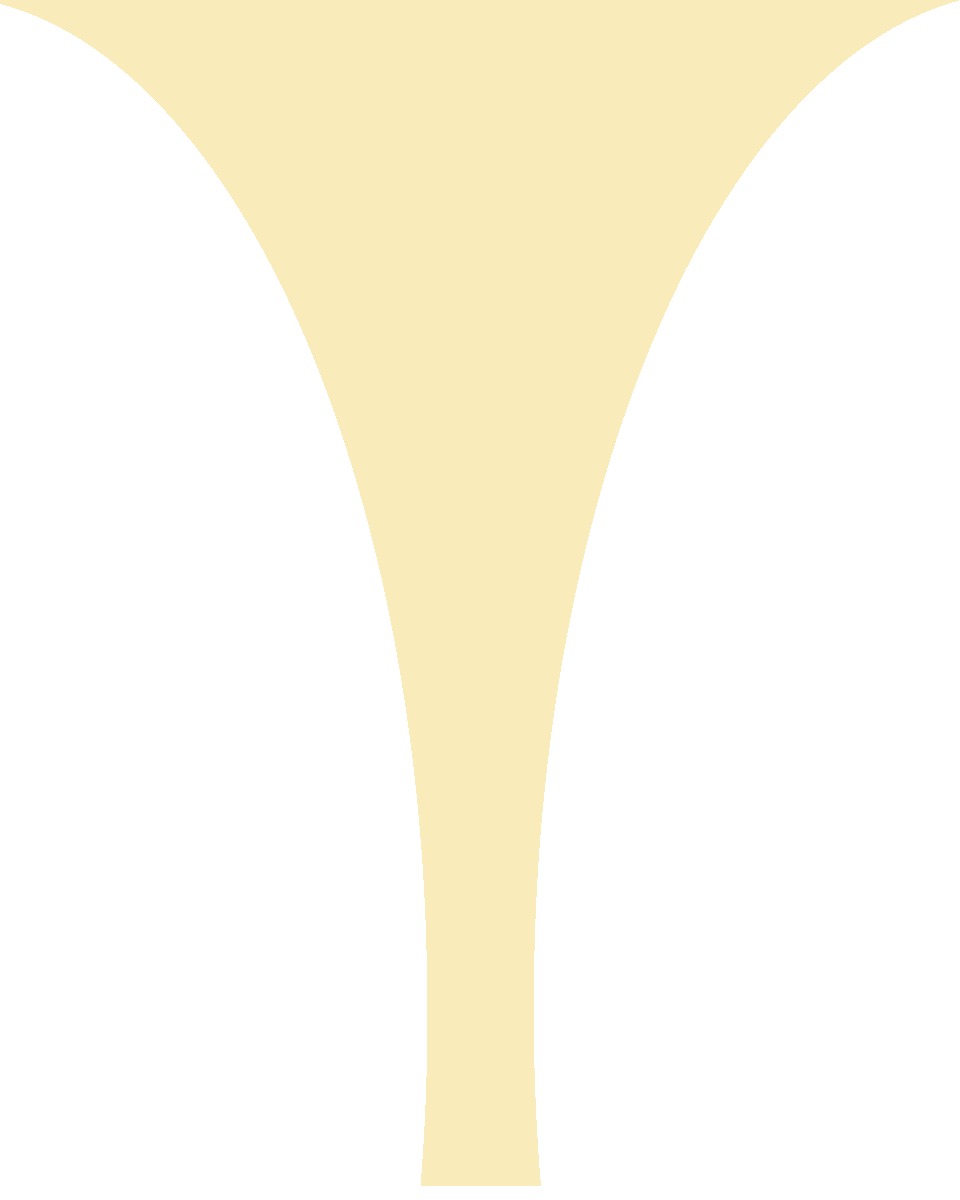
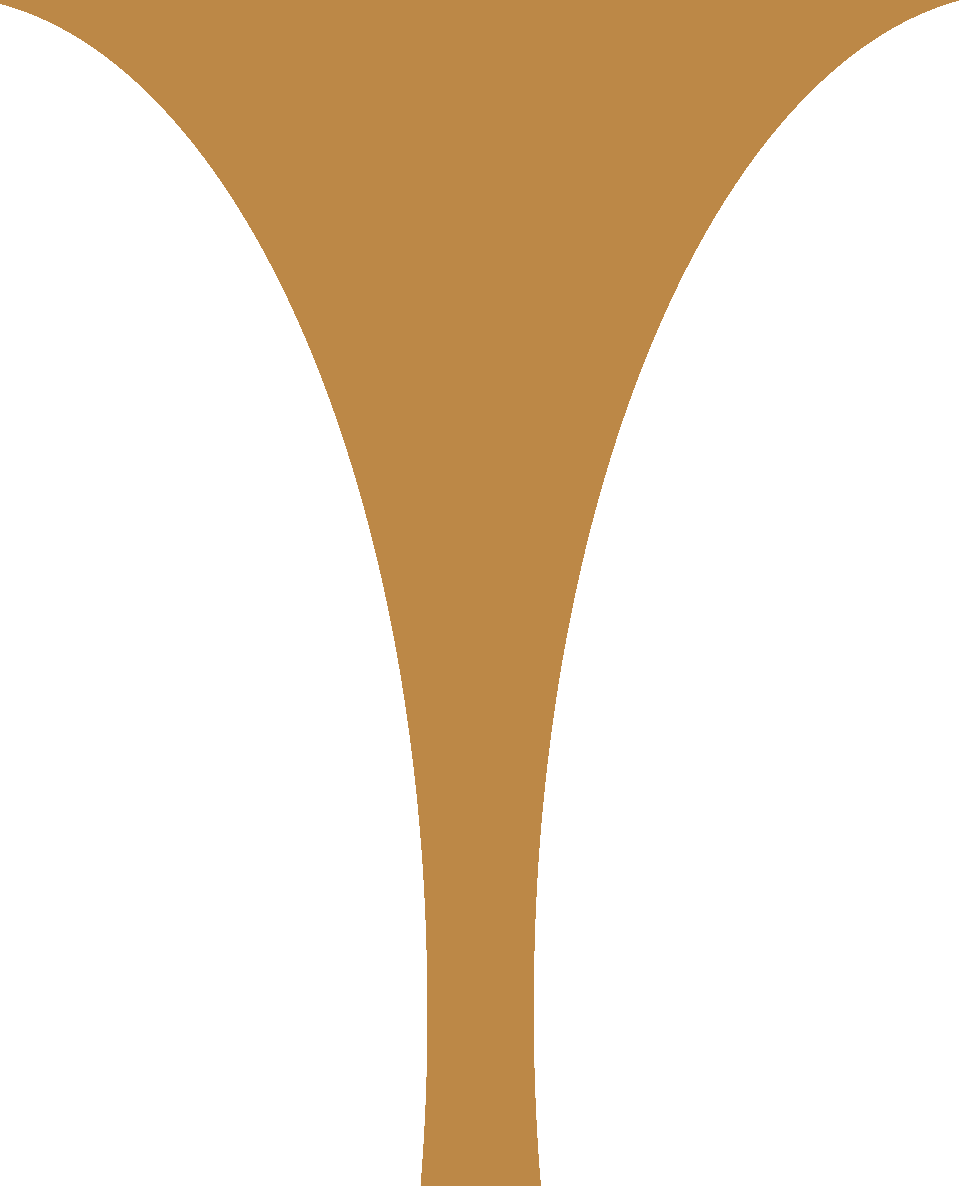
Change color scheme

Changed region(s): [[0.0, 0.0, 1.0, 1.0]]

diff --git a/app/styles/main.css b/app/styles/main.css
@@ -31,7 +31,7 @@ h2 {
 .header h1 {
   border-bottom: #6ed636 6px solid;
   font-family: sans-serif;
-  color: #000;
+  color: #fff;
   font-weight: 700;
   padding-top: 5px;
 }
@@ -100,7 +100,7 @@ a.action:hover, a.action:focus {
 }
 
 .header h1:focus, .header h1:hover {
-  background-color: #fff;
+  background-color: #ddd;
 }
 
 .nav-pills > li {
@@ -108,7 +108,7 @@ float: none;
 }
 
 .nav > li > a {
-  color: #000;
+  color: #ddd;
   font-weight: 600;
 }
 
@@ -117,7 +117,7 @@ float: none;
 }
 
 .header h1 a {
-  color: #000;
+  color: #fff;
 }
 
 
@@ -162,7 +162,7 @@ float: none;
 @media (min-width: 700px) {
 
   body {
-    background-color: aliceblue;
+    background-color: #8AC3DB;
   }
 
   .feature {
